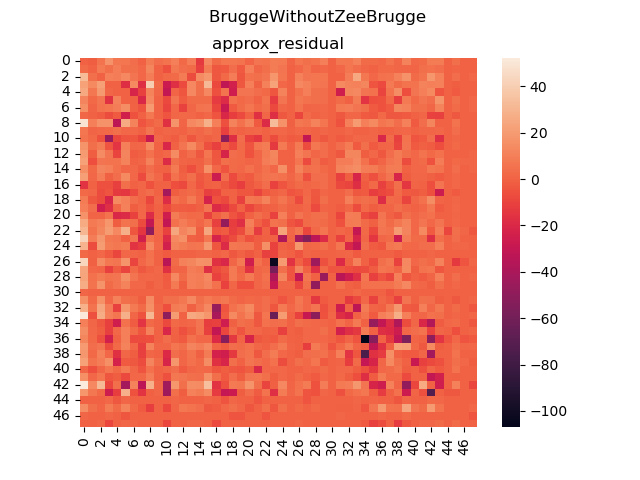
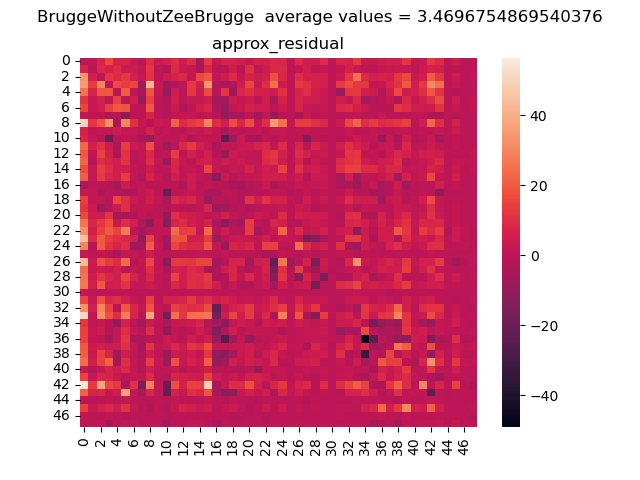
extra plots

diff --git a/newCode/newMain.py b/newCode/newMain.py
@@ -1,4 +1,4 @@
-from operational_functions import calculate_gap_RMSE, setup_test_case,calculate_perc_matrix, heatmap
+from operational_functions import calculate_gap_RMSE, setup_test_case,calculate_perc_matrix, heatmap,find_optimal_coef,calculate_gap_RMSE
 from output_functions import bars, equations, scatters, calculate_model, correlation_analyses, gap_bars, gap_bars_sum, compare_with_splits, residua_in_bars, residua_3D_plot, heatmaps
 from regression import simple_linear_reg, explanatory_linear_regression, split_linear_regression, linear_residua_split
 import pathlib
@@ -14,8 +14,10 @@ np.set_printoptions(suppress=True)
 
 
 def main():
-    zonings = ['ZoningSmallLeuven', 'BruggeWithoutZeeBrugge', 'Hasselt']
-    moves = ['LeuvenExternal', 'BruggeExternal', 'HasseltExternal']
+    zonings = ['ZoningSmallLeuven', 'BruggeWithoutZeeBrugge', 'Hasselt', 'Roeselare']
+    moves = ['LeuvenExternal', 'BruggeExternal', 'HasseltExternal','roeselare']
+    zonings = ['Roeselare']
+    moves = ['roeselare']
     network_properties = ['population_statbel', 'households_statbel', 'cars_statbel']
     methods = ['sum', 'destination']#, 'origin'] # --> origin and sum based are very similar
 
@@ -27,7 +29,7 @@ def main():
     #decide which analysis you want to run
     run_correlation = False
     explanatory_analyses = False
-    gaps_analysis =  False
+    gaps_analysis =  True
     gaps_analysis_sum = False
     split_analysis = False
     residua_analysis = True
@@ -67,16 +69,21 @@ def main():
 
 
         if different_approach:
-            multiply_fac = np.sum(original_od)/np.sum(tomtom_od)
+            multiply_fac = find_optimal_coef(original_od, tomtom_od)
+            print(multiply_fac)
             approx_2 = tomtom_od * multiply_fac
             
             approx_residua = original_od - approx_od
-            heatmap(approx_residua, zone,  'approx_residual', fileName='approx_residual_{}'.format(zone))
+            heatmap(approx_residua, zone,  'approx_residual',  fileName='approx_residual_{}'.format(zone))
 
 
 
             approx_residua_2 = original_od - approx_2
-            heatmap(approx_residua_2, zone,  'approx_residual', fileName='approx_2_residual_{}'.format(zone))
+            approx_residua_2 = np.array(approx_residua_2).astype(float)
+            approx_coef = calculate_gap_RMSE(original_od, approx_residua_2)
+            heatmap(approx_residua_2, zone,  'approx_residual',addiTitle = ' average values = {}'.format(np.average(approx_residua_2)), fileName='approx_2_residual_{}'.format(zone))
+
+            residua_3D_plot(approx_residua_2, zone, extraName = '_OwnCoef')
 
 
 
@@ -84,6 +91,7 @@ def main():
         if not explanatory_analyses:
             total_gap['none'][move]  = [(original_gap, 'original')]
             total_gap['none'][move].append((simple_approx_gap, 'simple reg.'))
+            total_gap['none'][move].append((approx_coef, 'approx coef'))
             # total_gap['none'][move].append((simple_approx_gap_norm, 'simple reg. (norm)'))
         else:
             summary += 'EXPLANATORY LINEAR REGRESSION\n\n'

diff --git a/newCode/output_functions.py b/newCode/output_functions.py
@@ -329,7 +329,7 @@ def residua_in_bars(residua, fileName, zone):
     plt.savefig(path+'/{}.png'.format(fileName))
 
 # 
-def residua_3D_plot(residua, zone):
+def residua_3D_plot(residua, zone, extraName = ''):
     fig = plt.figure()
     ax = plt.axes(projection = "3d")
     
@@ -362,4 +362,4 @@ def residua_3D_plot(residua, zone):
     ax.set_title('3D plot of residua zone {}'.format(zone))
     path = str(pathlib.Path(__file__).parents[1])+'/graphsFromResults/3D'
     os.makedirs(path, exist_ok=True)
-    plt.savefig(path + '/3D_plot_{}.png'.format(zone))
+    plt.savefig(path + '/3D_plot_{}.png'.format(zone+extraName))

diff --git a/newCode/operational_functions.py b/newCode/operational_functions.py
@@ -258,3 +258,18 @@ def calculate_perc_matrix(matrix1, matrix2, zone):
     
     
     return perc_matrix
+
+
+#function to find the coef where the squared error is the least significant
+def find_optimal_coef(array1,array2):
+
+    X = Symbol('X')
+    squaredError = 0
+    for i in range(len(array1)):
+        for j in range(len(array1)):
+            if j != i:
+                squaredError += (array1[i][j] - X*array2[i][j])**2
+
+    #now minimize this function
+    squaredErrorPrime = squaredError.diff(X)
+    return solve(squaredErrorPrime, X)[0]

diff --git a/newCode/main.py b/newCode/main.py
@@ -13,8 +13,8 @@ np.set_printoptions(suppress=True)
 
 
 def main():
-    zonings = ['ZoningSmallLeuven', 'BruggeWithoutZeeBrugge', 'Hasselt']
-    moves = ['LeuvenExternal', 'BruggeExternal', 'HasseltExternal']
+    zonings = ['ZoningSmallLeuven', 'BruggeWithoutZeeBrugge', 'Hasselt','Roeselare']
+    moves = ['LeuvenExternal', 'BruggeExternal', 'HasseltExternal', 'roeselare']
     cluster_ways = ['population_per_stasec_TOTAL', 'households_cars_statsec_2021_total_huisH', 'households_cars_statsec_2021_total_wagens']
     methods = ['sum']
 
